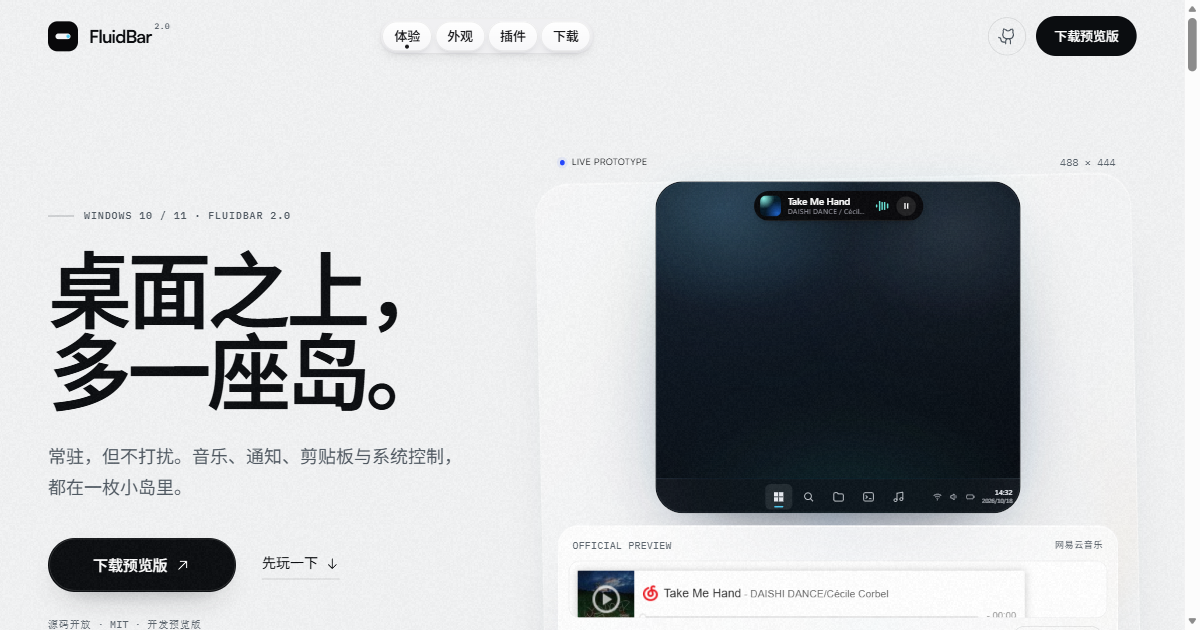
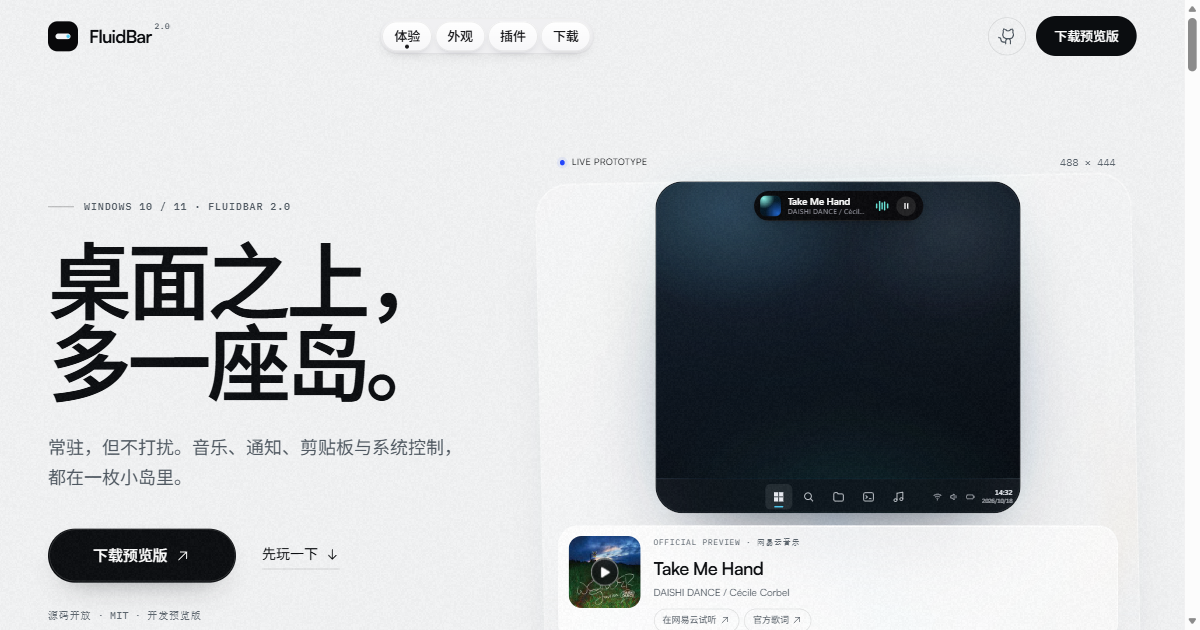
fix(website): replace nonplaying embed with official NetEase entry card

diff --git a/website/src/ui/netease-player.css b/website/src/ui/netease-player.css
@@ -1,6 +1,9 @@
 .netease-card {
+  display: grid;
+  grid-template-columns: 72px minmax(0, 1fr);
+  gap: 13px;
   margin-top: 12px;
-  padding: 11px 10px 9px;
+  padding: 10px;
   border: 1px solid var(--glass-border);
   border-radius: 20px;
   background:
@@ -12,106 +15,120 @@
   color: var(--ink);
 }
 
-.netease-card__head,
-.netease-card__foot {
-  display: flex;
-  align-items: center;
-  justify-content: space-between;
-  gap: 12px;
-  padding-inline: 4px;
+.netease-card__cover {
+  position: relative;
+  display: block;
+  width: 72px;
+  height: 72px;
+  overflow: hidden;
+  border-radius: 13px;
+  background:
+    radial-gradient(circle at 60% 30%, rgba(76, 201, 240, 0.65), transparent 52%),
+    #090b0e;
 }
 
-.netease-card__head {
-  margin-bottom: 7px;
-  color: var(--muted-2);
+.netease-card__cover img {
+  width: 100%;
+  height: 100%;
+  object-fit: cover;
+}
+
+.netease-card__play {
+  position: absolute;
+  left: 50%;
+  top: 50%;
+  display: grid;
+  place-items: center;
+  width: 27px;
+  height: 27px;
+  border: 1px solid rgba(255, 255, 255, 0.7);
+  border-radius: 50%;
+  background: rgba(8, 9, 12, 0.66);
+  color: #fff;
+  -webkit-backdrop-filter: blur(8px);
+  backdrop-filter: blur(8px);
+  transform: translate(-50%, -50%);
+  transition: background 0.2s ease, transform 0.2s ease;
+}
+
+.netease-card__cover:hover .netease-card__play {
+  background: var(--accent);
+  transform: translate(-50%, -50%) scale(1.06);
+}
+
+.netease-card__main {
+  display: flex;
+  flex-direction: column;
+  min-width: 0;
+  justify-content: center;
+}
+
+.netease-card__eyebrow {
+  font-family: var(--font-mono);
   font-size: 8px;
   letter-spacing: 0.08em;
-}
-
-.netease-card__source {
-  font-size: 9px;
-  color: var(--muted);
-}
-
-.netease-card__frame {
-  height: 66px;
-  overflow: hidden;
-  border: 1px solid rgba(11, 13, 16, 0.06);
-  border-radius: 11px;
-  background: #fff;
-}
-
-.netease-card__frame iframe {
-  display: block;
-  width: 540px;
-  height: 66px;
-  border: 0;
-  transform-origin: left top;
-}
-
-.netease-card__foot {
-  margin-top: 8px;
   color: var(--muted-2);
-  font-family: var(--font-mono);
-  font-size: 9px;
-  letter-spacing: 0.01em;
 }
 
-.netease-card__foot a {
+.netease-card__main strong {
+  margin-top: 3px;
+  overflow: hidden;
+  font-family: var(--font-display);
+  font-size: 18px;
+  font-weight: 600;
+  letter-spacing: -0.035em;
+  text-overflow: ellipsis;
+  white-space: nowrap;
+}
+
+.netease-card__artist {
+  margin-top: 1px;
+  overflow: hidden;
+  color: var(--muted);
+  font-size: 10px;
+  text-overflow: ellipsis;
+  white-space: nowrap;
+}
+
+.netease-card__actions {
+  display: flex;
+  flex-wrap: wrap;
+  align-items: center;
+  gap: 5px;
+  margin-top: 7px;
+}
+
+.netease-card__actions a {
   display: inline-flex;
   align-items: center;
-  gap: 4px;
-  min-height: 26px;
-  padding: 0 9px;
+  gap: 3px;
+  min-height: 24px;
+  padding: 0 8px;
   border: 1px solid var(--line);
   border-radius: 999px;
-  color: var(--ink);
+  color: var(--muted);
   font-size: 9px;
   transition: color 0.2s ease, border-color 0.2s ease, background 0.2s ease;
 }
 
-.netease-card__foot a:hover {
+.netease-card__actions a:hover {
   color: var(--ink);
   border-color: var(--line-strong);
-  background: rgba(255, 255, 255, 0.6);
+  background: rgba(255, 255, 255, 0.62);
 }
 
-@media (max-width: 1300px) {
-  .netease-card__frame {
-    height: 57px;
-  }
-
-  .netease-card__frame iframe {
-    transform: scale(0.86);
-  }
-}
-
-@media (max-width: 1000px) {
-  .netease-card__frame {
-    height: 52px;
-  }
-
-  .netease-card__frame iframe {
-    transform: scale(0.78);
-  }
-}
-
-@media (max-width: 600px) {
+@media (max-width: 480px) {
   .netease-card {
-    padding-inline: 8px;
+    grid-template-columns: 60px minmax(0, 1fr);
+    gap: 10px;
   }
 
-  .netease-card__frame {
-    height: 42px;
+  .netease-card__cover {
+    width: 60px;
+    height: 60px;
   }
 
-  .netease-card__frame iframe {
-    transform: scale(0.63);
-  }
-
-  .netease-card__foot {
-    align-items: flex-start;
-    flex-direction: column;
-    gap: 5px;
+  .netease-card__main strong {
+    font-size: 16px;
   }
 }

diff --git a/website/src/ui/NeteasePlayer.tsx b/website/src/ui/NeteasePlayer.tsx
@@ -1,34 +1,47 @@
-import { ArrowUpRight } from '@phosphor-icons/react';
+import { ArrowUpRight, Play } from '@phosphor-icons/react';
 import './netease-player.css';
 
 const SONG_URL = 'https://music.163.com/#/song?id=26092806';
+const COVER_URL =
+  'https://p2.music.126.net/AoVFMKkLVMOmTMo_A6x02g==/109951163403515653.jpg?param=200y200';
 
 export function NeteasePlayer() {
   return (
     <div className="netease-card">
-      <div className="netease-card__head">
-        <span className="mono">OFFICIAL PREVIEW</span>
-        <span className="netease-card__source">网易云音乐</span>
-      </div>
-
-      <div className="netease-card__frame">
-        <iframe
-          title="网易云音乐：Take Me Hand - DAISHI DANCE / Cécile Corbel"
-          src="https://music.163.com/outchain/player?type=2&id=26092806&auto=0&height=66"
-          width="540"
-          height="66"
-          frameBorder="0"
-          allow="autoplay; encrypted-media"
+      <a
+        className="netease-card__cover"
+        href={SONG_URL}
+        target="_blank"
+        rel="noopener noreferrer"
+        aria-label="在网易云音乐打开 Take Me Hand"
+      >
+        <img
+          src={COVER_URL}
+          alt="Take Me Hand 官方封面"
+          width="200"
+          height="200"
           loading="eager"
+          referrerPolicy="no-referrer"
         />
-      </div>
+        <span className="netease-card__play" aria-hidden="true">
+          <Play size={13} weight="fill" />
+        </span>
+      </a>
 
-      <div className="netease-card__foot">
-        <span>官方封面 · 官方音源</span>
-        <a href={SONG_URL} target="_blank" rel="noopener noreferrer">
-          查看官方歌词
-          <ArrowUpRight size={11} aria-hidden="true" />
-        </a>
+      <div className="netease-card__main">
+        <span className="netease-card__eyebrow">OFFICIAL PREVIEW · 网易云音乐</span>
+        <strong>Take Me Hand</strong>
+        <span className="netease-card__artist">DAISHI DANCE / Cécile Corbel</span>
+        <div className="netease-card__actions">
+          <a href={SONG_URL} target="_blank" rel="noopener noreferrer">
+            在网易云试听
+            <ArrowUpRight size={11} aria-hidden="true" />
+          </a>
+          <a href={SONG_URL} target="_blank" rel="noopener noreferrer">
+            官方歌词
+            <ArrowUpRight size={11} aria-hidden="true" />
+          </a>
+        </div>
       </div>
     </div>
   );

diff --git a/website/tests/site.spec.ts b/website/tests/site.spec.ts
@@ -3,12 +3,6 @@ import { expect, test, type Page } from '@playwright/test';
 const HERO_FRAME = 'iframe[title^="FluidBar 真实交互原型"]';
 const LAB_FRAME = 'iframe[title="FluidBar 真实灵动岛原型"]';
 
-// The NetEase outchain player is a third-party document. Its own browser
-// detector tries to walk the parent window and reports a cross-origin error
-// on non-HTTPS local previews. That error is inside the player, not the site.
-const isThirdPartyPlayerNoise = (message: string) =>
-  /music\.163\.com|device__browser_update|Blocked a frame/.test(message);
-
 async function waitForFrame(page: Page, selector: string) {
   const frame = page.frameLocator(selector);
   await expect(frame.locator('body.ready')).toBeAttached({ timeout: 20_000 });
@@ -19,7 +13,7 @@ test.describe('FluidBar official site', () => {
   test('hero renders and the real island expands/collapses', async ({ page }) => {
     const errors: string[] = [];
     page.on('pageerror', (error) => {
-      if (!isThirdPartyPlayerNoise(error.message)) errors.push(error.message);
+      errors.push(error.message);
     });
 
     await page.goto('/');
@@ -95,8 +89,15 @@ test.describe('FluidBar official site', () => {
 
   test('official song preview and lyrics entry are present', async ({ page }) => {
     await page.goto('/');
-    await expect(page.locator('iframe[src*="music.163.com/outchain/player"]')).toHaveCount(1);
-    await expect(page.getByRole('link', { name: /查看官方歌词/ })).toHaveAttribute(
+    await expect(page.locator('.netease-card__cover img')).toHaveAttribute(
+      'alt',
+      'Take Me Hand 官方封面',
+    );
+    await expect(page.getByRole('link', { name: '在网易云试听' })).toHaveAttribute(
+      'href',
+      'https://music.163.com/#/song?id=26092806',
+    );
+    await expect(page.getByRole('link', { name: '官方歌词' })).toHaveAttribute(
       'href',
       'https://music.163.com/#/song?id=26092806',
     );
@@ -117,7 +118,7 @@ test.describe('FluidBar official site', () => {
   test('no page errors on the landing page', async ({ page }) => {
     const errors: string[] = [];
     page.on('pageerror', (error) => {
-      if (!isThirdPartyPlayerNoise(error.message)) errors.push(error.message);
+      errors.push(error.message);
     });
     await page.goto('/');
     await page.waitForTimeout(1500);

diff --git a/website/src/sections/Hero.tsx b/website/src/sections/Hero.tsx
@@ -100,7 +100,7 @@ export function Hero() {
 
             <div className="stage-meta stage-meta--bottom">
               <span className="mono">226 × 40 · MUSIC</span>
-              <span className="mono stage-demo-label">Take Me Hand · 官方试听</span>
+              <span className="mono stage-demo-label">Take Me Hand · 官方入口</span>
               <span className="mono">440 × 284 · EXPANDED</span>
             </div>
           </div>

diff --git a/CHANGELOG.md b/CHANGELOG.md
@@ -5,13 +5,13 @@
 ## 2026-10-28 — 官方网站重建为日光光学单页（真实原型嵌入）
 
 - 旧版 `website/` 视觉与代码完全退役；新站从空白 Vite + React + TypeScript 工程重建。
-- 页面为冷银白亮色，产品区是 488×444 的深色真实桌面窗；首屏默认展示真实 music 收起态，右侧页面索引直接驱动真实 pager，下方接网易云音乐官方外链播放器。
+- 页面为冷银白亮色，产品区是 488×444 的深色真实桌面窗；首屏默认展示真实 music 收起态，右侧页面索引直接驱动真实 pager，下方接网易云音乐官方入口卡。
 - 首屏、故事区、外观配置器直接嵌入 `docs/rewrite/prototype2`，不在网页里重画灵动岛。
 - 通过同源 postMessage 桥同步真实状态：idle 132×36、music 226×40、notifications 248×36、clipboard 264×36、agent 236×36，展开 440×284；形态和材质也直接写进原型。
 - ReactBits vendored 六个 TS-CSS 组件；Shaders 作为材质研究的 WebGPU 黑曜石样本，WebGPU 不可用时保留 CSS 回退。
 - 新增 Playwright 站点/可达性测试、字体子集、OG 图与 Cloudflare Pages 静态部署配置（`wrangler.toml`、`_headers`、`SITE_URL`）。
 - 验证：`pnpm build` 通过；Vitest 5/5、Playwright 站点 6/6、可达性 2/2 通过。
-- 音乐预览接网易云音乐官方外链（歌曲 ID `26092806`），官方封面/试听/歌词入口；站内不复制歌词。
+- 音乐预览接网易云音乐官方入口卡（歌曲 ID `26092806`），官方封面/试听/歌词入口；站内不复制歌词。
 - 部署：Cloudflare Pages 项目 `fluidbar` 已上线；`fluidbar.doulor.cn` 通过 `fluidbar-site` Worker 路由代理，真实 iframe、字体、Shaders 与 axe 站点检查通过。
 
 ## 2026-10-28 — 封面：通用默认图被当成真封面、好封面被晚到的差图顶掉、抓取被位置刷新反复取消

diff --git a/docs/rewrite/STATUS.md b/docs/rewrite/STATUS.md
@@ -6,7 +6,7 @@
 ## 2026-10-28 官网检查点（日光光学 + 真实原型嵌入）
 
 - 新官网位于 `website/`：Vite 8 + React 19 + TypeScript，页面为冷银白亮色，产品窗为 488×444 的真实 prototype2 桌面场景。
-- 首屏默认展示真实 music 收起态，右侧页面索引直接驱动真实 pager；下方接网易云音乐官方外链播放器（封面、试听、官方歌词入口）。首屏、故事区、外观配置器都直接加载 `docs/rewrite/prototype2`，通过同源 postMessage 驱动真实 compact/expanded 状态、页面、形态和材质；网页不重画岛。
+- 首屏默认展示真实 music 收起态，右侧页面索引直接驱动真实 pager；下方接网易云音乐官方入口卡（官方封面、试听、歌词入口）。首屏、故事区、外观配置器都直接加载 `docs/rewrite/prototype2`，通过同源 postMessage 驱动真实 compact/expanded 状态、页面、形态和材质；网页不重画岛。
 - ReactBits 以 TS-CSS 源码 vendored 六个组件；Shaders 只做材质研究的 WebGPU 黑曜石样本，WebGPU 不可用时保留 CSS 回退。
 - 验证：`pnpm build` 通过；Vitest 协议测试 5/5、Playwright 站点 6/6、可达性 2/2 通过；1440×900 与 390×844 无横向溢出；官网页面 chrome 的 axe 无 serious/critical（iframe 内真实原型的 UI token 不做改名/改色）。
 - 部署：已上线 Cloudflare Pages 项目 `fluidbar`（`https://fluidbar.pages.dev`）。`https://fluidbar.doulor.cn` 已通过 `fluidbar-site` Worker 路由代理到 Pages，真实 iframe 与 Shaders 在该域名下验证通过；`SITE_URL` 构建为 `https://fluidbar.doulor.cn`。Worker 配置见 `website/wrangler.worker.toml`。

diff --git a/website/README.md b/website/README.md
@@ -8,7 +8,7 @@ FluidBar 2.0 的官方单页，构建在 Vite + React + TypeScript 上。
 
 **不要重画灵动岛。**
 
-首屏默认展示真实 music 收起态 226×40，可点岛展开控制中心；右侧页面索引也直接驱动真实 pager。首屏下方是网易云音乐官方外链播放器（歌曲 ID `26092806`），封面、试听和官方歌词入口均来自网易云；站内不复制歌词。
+首屏默认展示真实 music 收起态 226×40，可点岛展开控制中心；右侧页面索引也直接驱动真实 pager。首屏下方是网易云音乐官方入口卡（歌曲 ID `26092806`），封面、官方试听和官方歌词入口均跳转网易云；站内不复制歌词。
 
 首屏、故事区、外观配置器里的岛都来自 `docs/rewrite/prototype2` 的真实实现。网页通过 `public/island/` 的 clean embed 加载原型，React 外壳只负责：
 
@@ -118,4 +118,4 @@ wrangler deploy --config wrangler.worker.toml
 - 插件 manifest 示例来自 `docs/plugin/` 与 `schemas/`。
 - 性能数字来自 `docs/rewrite/STATUS.md` 和发布说明，页面底部标注了来源与测量环境。
 - 演示区标注“示例数据”，不冒充用户真实数据。
-- 音乐预览使用网易云音乐官方外链播放器（歌曲 ID `26092806`）；播放器显示官方封面和音源，“查看官方歌词”跳转网易云歌曲页，站内不复制歌词文本。
+- 音乐预览使用网易云音乐官方入口卡（歌曲 ID `26092806`）：官方封面、试听和歌词都跳转网易云歌曲页，站内不复制歌词文本。网易云网页播放器当前要求客户端/登录，因此站点不伪造站内播放。

diff --git a/docs/rewrite/specs/2026-10-27-official-website-design.md b/docs/rewrite/specs/2026-10-27-official-website-design.md
@@ -135,7 +135,7 @@
 - H1 两行，88 到 120px，黑色，紧字距。
 - 产品窗是 488 × 444 的深色桌面窗，圆角 28px，1px 冷色描边，冷灰长阴影。
 - 产品窗内部使用真实 prototype2 场景：壁纸、任务栏、灵动岛，不画假浏览器边框。
-- 首屏默认展示真实 music 收起态 226×40（`media` 状态），点击小岛展开控制中心；下方接网易云音乐官方外链播放器，提供封面、试听和官方歌词入口。
+- 首屏默认展示真实 music 收起态 226×40（`media` 状态），点击小岛展开控制中心；下方接网易云音乐官方入口卡，提供封面、官方试听和官方歌词入口。
 - 产品窗右侧有一列真实页面索引，直接驱动 prototype2 的 pager；首页/媒体/通知/剪贴板/Agent/小组件都可点。
 - 产品窗外围使用 1px 细线和 mono 尺寸标注：`488 × 444`、`226 × 40`、`440 × 284`。
 - 产品窗右上或左上有一束极淡的冷光，不是渐变按钮式光晕。
